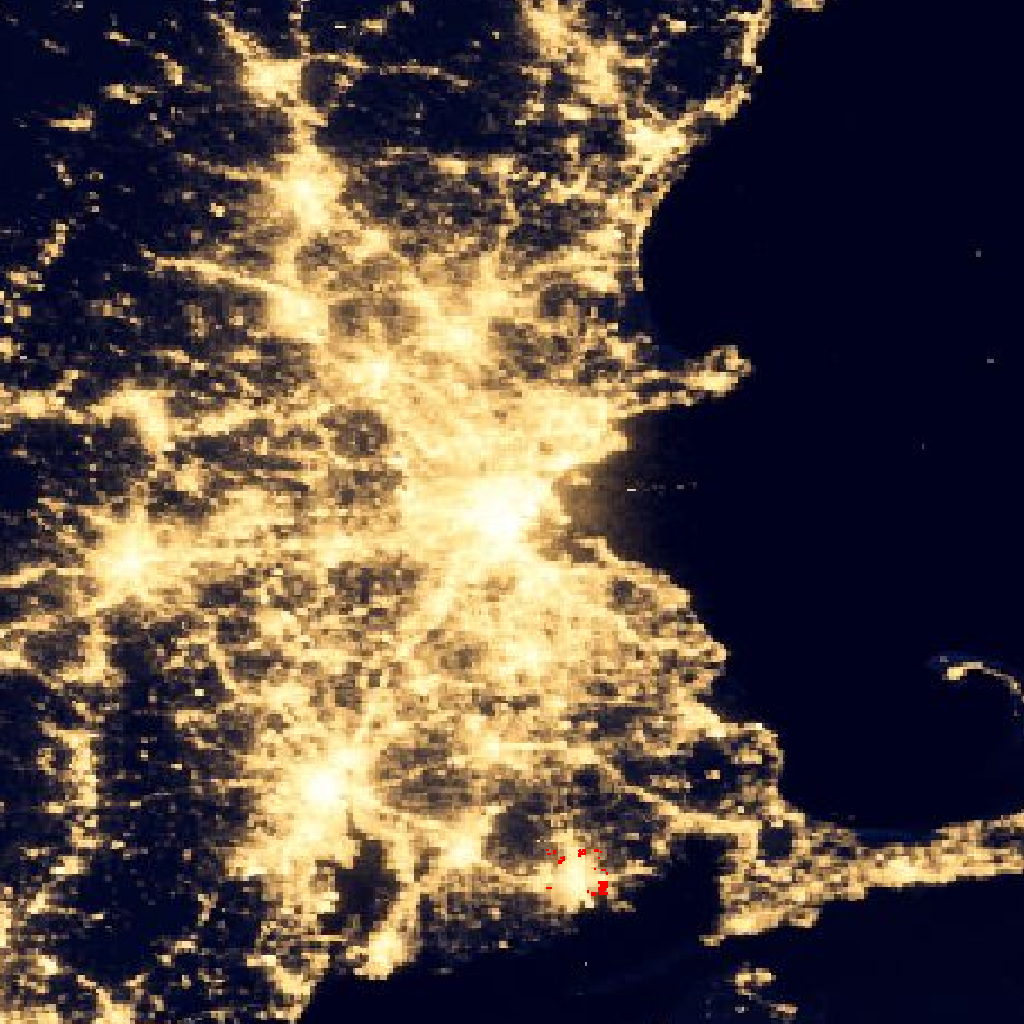
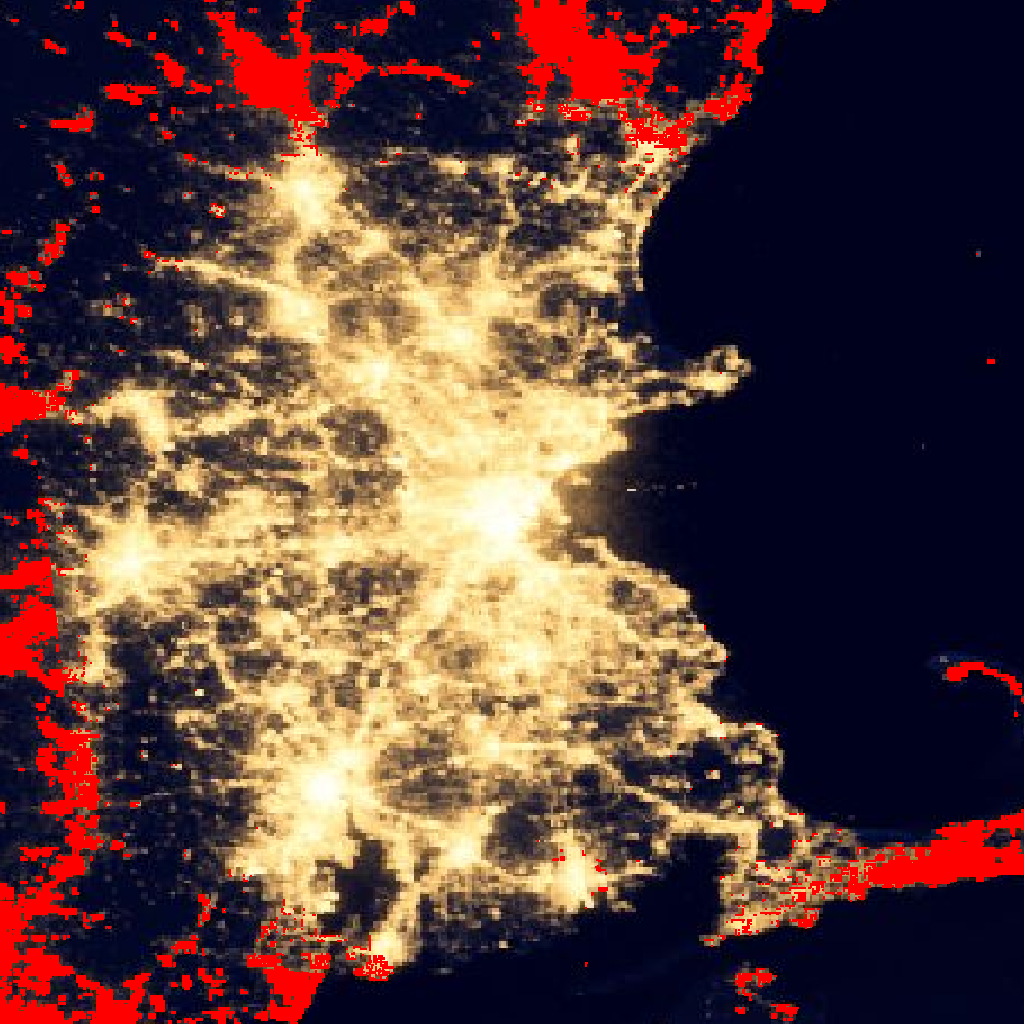
added image registration

diff --git a/image_analysis/image_registration.py b/image_analysis/image_registration.py
@@ -1,0 +1,61 @@
+# adapted from https://www.geeksforgeeks.org/image-registration-using-opencv-python/
+
+import cv2 
+import numpy as np
+
+def image_registration(no_outages_path, with_outages_path, output_path):
+
+    # Open the image files. 
+    with_outages_color = cv2.imread(with_outages_path) # Image to be aligned. 
+    no_outages_color = cv2.imread(no_outages_path) # Reference image. 
+
+    # Convert to grayscale. 
+    with_outages = cv2.cvtColor(with_outages_color, cv2.COLOR_BGR2GRAY) 
+    no_outages = cv2.cvtColor(no_outages_color, cv2.COLOR_BGR2GRAY) 
+    height, width = no_outages.shape 
+
+    # Create ORB detector with 5000 features. 
+    orb_detector = cv2.ORB_create(5000) 
+
+    # Find keypoints and descriptors. 
+    # The first arg is the image, second arg is the mask 
+    # (which is not required in this case). 
+    kp1, d1 = orb_detector.detectAndCompute(with_outages, None) 
+    kp2, d2 = orb_detector.detectAndCompute(no_outages, None) 
+
+    # Match features between the two images. 
+    # We create a Brute Force matcher with 
+    # Hamming distance as measurement mode. 
+    matcher = cv2.BFMatcher(cv2.NORM_HAMMING, crossCheck = True) 
+
+    # Match the two sets of descriptors. 
+    matches = list(matcher.match(d1, d2))
+    print(type(matches))
+
+    # Sort matches on the basis of their Hamming distance. 
+    matches.sort(key = lambda x: x.distance) 
+
+    # Take the top 90 % matches forward. 
+    matches = matches[:int(len(matches)*0.9)] 
+    no_of_matches = len(matches) 
+
+    # Define empty matrices of shape no_of_matches * 2. 
+    p1 = np.zeros((no_of_matches, 2)) 
+    p2 = np.zeros((no_of_matches, 2)) 
+
+    for i in range(len(matches)): 
+        p1[i, :] = kp1[matches[i].queryIdx].pt 
+        p2[i, :] = kp2[matches[i].trainIdx].pt 
+
+    # Find the homography matrix. 
+    homography, mask = cv2.findHomography(p1, p2, cv2.RANSAC) 
+
+    # Use this matrix to transform the 
+    # colored image wrt the reference image. 
+    transformed_img = cv2.warpPerspective(with_outages_color, 
+                        homography, (width, height)) 
+
+    # Save the output. 
+    cv2.imwrite(f'{output_path}.png', transformed_img) 
+
+image_registration("image_analysis/satelite_images/city.png", "image_analysis/misaligned_input/with_outages6.jpeg", "image_analysis/aligned_output/test1")

diff --git a/image_analysis/create_outages.py b/image_analysis/create_outages.py
@@ -1,4 +1,4 @@
-# edited from https://platform.openai.com/docs/guides/images/usage
+# adapted from https://platform.openai.com/docs/guides/images/usage
 
 from openai import OpenAI
 
@@ -7,18 +7,18 @@ client = OpenAI(api_key=OPENAI_API_KEY)
 
 def edit_image(original, mask, output_name):
     response = client.images.edit(
-    model="dall-e-2",
-    image=open(f"satelite_images/{original}", "rb"),
-    mask=open(f"masks/{mask}", "rb"),
-    prompt="fill the ENTIRE mask with a DEVASTATING, EXTREMELY, VERY LARGE POWER OUTAGE. the ENTIRE area is nearly pitch dark.",
+    model = "dall-e-2",
+    image = open(original, "rb"),
+    mask = open(mask, "rb"),
+    prompt = "fill the ENTIRE mask with a DEVASTATING, EXTREMELY, VERY LARGE POWER OUTAGE. the ENTIRE area is nearly pitch dark.",
     n=1,
-    size="1024x1024"
+    size = "1024x1024"
     )
     image_url = response.data[0].url
     save_image(image_url, output_name)
 
 
-# edited from chatgpt output
+# adapted from chatgpt output
 
 from PIL import Image
 import requests
@@ -31,9 +31,9 @@ def save_image(image_url, output_name):
     if response.status_code == 200:
         img = Image.open(BytesIO(response.content))
 
-        img.save(f"with_outages/{output_name}.png")
+        img.save(f"{output_name}.png")
     else:
         print(f"Failed to download image. Status code: {response.status_code}")
 
 
-edit_image("city.png", "mask.png", "with_outages7")
+edit_image("image_analysis/satelite_images/city.png", "image_analysis/masks/mask.png", "image_analysis/with_outages/with_outages7")

diff --git a/image_analysis/get_night_lights.py b/image_analysis/get_night_lights.py
@@ -1,26 +1,8 @@
-# edited from https://nasa-gibs.github.io/gibs-api-docs/python-usage/#basic-wms-connection
+# adapted from https://nasa-gibs.github.io/gibs-api-docs/python-usage/#basic-wms-connection
 
-import os
-from io import BytesIO
-from skimage import io
-import requests
-import json
-import matplotlib.pyplot as plt
-import matplotlib.ticker as mticker
-import cartopy.crs as ccrs
-import cartopy
-from cartopy.mpl.gridliner import LONGITUDE_FORMATTER, LATITUDE_FORMATTER
-import urllib.request
-import urllib.parse
-import mapbox_vector_tile
-import xml.etree.ElementTree as xmlet
-import lxml.etree as xmltree
-from PIL import Image as plimg
-import numpy as np
 from owslib.wms import WebMapService
-from IPython.display import Image, display
 
-def download_image(longitude, latitude, output_name):
+def download_image(longitude, latitude, output_path):
     # Connect to GIBS WMS Service
     wms = WebMapService('https://gibs.earthdata.nasa.gov/wms/epsg4326/best/wms.cgi?', version='1.1.1')
 
@@ -40,8 +22,8 @@ def download_image(longitude, latitude, output_name):
 
     # Save output PNG to a file
 
-    out = open(f'satelite_images/{layer}-{output_name}.png', 'wb')
+    out = open(f'{output_path}.png', 'wb')
     out.write(img.read())
     out.close()
 
-download_image(-71.060909, 42.358386, "boston")
+download_image(-71.060909, 42.358386, "image_analysis/satelite_images/boston")

diff --git a/image_analysis/find_outages.py b/image_analysis/find_outages.py
@@ -3,8 +3,8 @@ import numpy as np
 
 def find_difference(no_outage_path, with_outage_path, output_path):
 
-    no_outage = Image.open(f"satelite_images/{no_outage_path}")
-    with_outage = Image.open(f"with_outages/{with_outage_path}")
+    no_outage = Image.open(no_outage_path)
+    with_outage = Image.open(with_outage_path)
 
     no_outage = no_outage.convert("RGB")
     with_outage = with_outage.convert("RGB")
@@ -20,8 +20,8 @@ def find_difference(no_outage_path, with_outage_path, output_path):
         draw.rectangle([coord[1], coord[0], coord[1]+1, coord[0]+1], outline="red")
 
     # Save the result
-    no_outage.save(f"differences/{output_path}")
+    no_outage.save(f"{output_path}.png")
 
 
 
-find_difference("city.png", "with_outages7.png", "difference7.png")
+find_difference("image_analysis/satelite_images/city.png", "image_analysis/aligned_output/test1.png", "image_analysis/differences/difference7")
